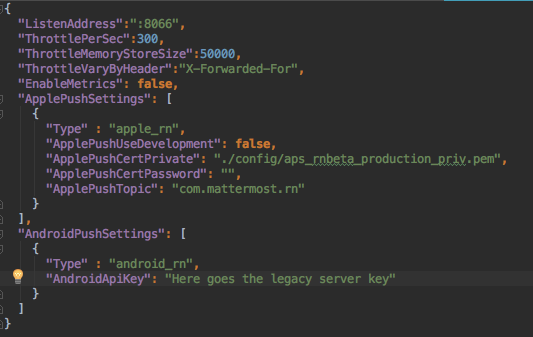
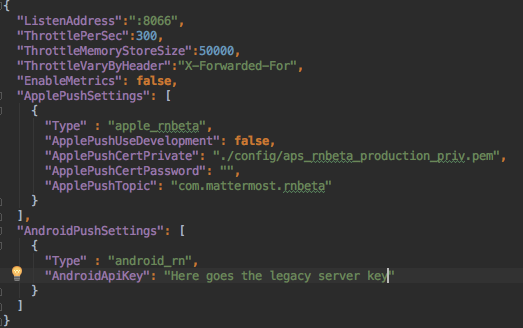
Push notifications for ios and project structure

diff --git a/source/developer/mobile-developer-setup.rst b/source/developer/mobile-developer-setup.rst
@@ -250,7 +250,41 @@ To add them, edit the ``Podfile`` located in the ``ios`` directory, then from th
 Project Directory Structure
 ------------------------------------
 
-.. image:: ../../source/images/project_directory_structure_apps.png
+  .. code-block:: bash
+
+    .
+    ├── android
+    ├── app
+    │   ├── actions
+    │   ├── components
+    │   ├── constants
+    │   ├── i18n
+    │   ├── mattermost_managed
+    │   ├── notification_preferences
+    │   ├── push_notifications
+    │   ├── reducers
+    │   ├── screens
+    │   ├── selectors
+    │   ├── store
+    │   ├── styles
+    │   └── utils
+    ├── assets
+    │   ├── base
+    │   │   ├── i18n
+    │   │   ├── images
+    │   │   └── release
+    │   └── fonts
+    ├── coverage
+    ├── dist
+    │   └── assets
+    │       ├── i18n
+    │       ├── images
+    │       └── release
+    ├── docs
+    ├── fastlane
+    ├── ios
+    ├── scripts
+    └── test
 
 Make Commands Explained
 ------------------------------------
@@ -321,6 +355,7 @@ Plug in your Android device in any available USB port in your development machin
 check that your device is properly connecting to ADB (Android Debug Bridge) by running **adb devices**.
 
   .. code-block:: bash
+
     $ adb devices
     List of devices attached
     42006fb3e4fb25b8    device
@@ -482,7 +517,7 @@ file under the fastlane directory to get a sense of all of them.
 +-----------------------------------------------+-------------------------------------------------------------------------------------------------------+-------------------------+
 | ANDROID_APP_NAME                              | The name of the app as it is going to be shown in the Android home screen.                            | Mattermost Beta         |
 +-----------------------------------------------+-------------------------------------------------------------------------------------------------------+-------------------------+
-| ANDROID_REPLACE_ASSETS                        | Replaces the icons of the app with the ones found under the folder *assets/release/icons/android*.    | false                   |
+| ANDROID_REPLACE_ASSETS                        | Replaces the icons of the app with the ones found under the folder *dist/assets/release/icons/android*.    | false                   |
 |                                               | Valid values are: true, false                                                                         |                         |
 +-----------------------------------------------+-------------------------------------------------------------------------------------------------------+-------------------------+
 | ANDROID_INCREMENT_BUILD_NUMBER                | Increases the Android app build number, required when a new build is going to be publish to the       | false                   |
@@ -557,7 +592,7 @@ file under the fastlane directory to get a sense of all of them.
 |                                               | **Make sure you set this value to true if you plan to submit this app to TestFlight or distribute     |                                        |
 |                                               | it in any other way**.                                                                                |                                        |
 +-----------------------------------------------+-------------------------------------------------------------------------------------------------------+----------------------------------------+
-| IOS_REPLACE_ASSETS                            | Replaces the icons of the app with the ones found under the folder *assets/release/icons/ios*.        | false                                  |
+| IOS_REPLACE_ASSETS                            | Replaces the icons of the app with the ones found under the folder *dist/assets/release/icons/ios*.        | false                                  |
 |                                               | Valid values are: true, false                                                                         |                                        |
 +-----------------------------------------------+-------------------------------------------------------------------------------------------------------+----------------------------------------+
 | IOS_INCREMENT_BUILD_NUMBER                    | Increases the iOS app build number, required when a new build is going to be publish to TestFlight    | false                                  |
@@ -672,20 +707,102 @@ this guide will only focus about the changes needed in the **mattermost-push-pro
 
 - Go to the `Firebase Console <https://console.firebase.google.com>`_ and select the project you've created, once in the
   dashboard go to the project settings and select **CLOUD MESSAGING**
-
 .. image:: ../../source/images/mobile/firebase_settings.png
 
 .. image:: ../../source/images/mobile/firebase_cloud_messaging.png
 
 - Look for the value of the **Legacy Server Key** and copy it.
-
 .. image:: ../../source/images/mobile/farebase_server_key.png
 
 - Open the **mattermost-push-proxy.json** file under the ``mattermost-push-proxy/config`` directory and paste the value in the "AndroidApiKey"
-
 .. image:: ../../source/images/mobile/proxy-config.png
 
 - Finally restart your Mattermost Push Proxy server and your app should start receiving push notifications.
+
+Set up iOS to receive push notifications
+~~~~~~~~~~~~~~~~~~~~~~~~~~~~~~~~~~~~~~~~~
+
+Push notifications on iOS are managed and dispatched using `Apple's Push Notification Service <https://developer.apple.com/library/content/documentation/NetworkingInternet/Conceptual/RemoteNotificationsPG/APNSOverview.html>`_.
+You must have a **Paid Apple Developer account** to create certificates needed to send notifications using this service.
+
+ - Generate a Certificate from Keychain Access
+    * Launch the **Keychain Access application** in your Mac and select **KeyChain Access -> Certificate Assistant -> Request a Certificate From a Certificate Authority...**
+    .. image:: ../../source/images/mobile/ios_keychain_request_certificate.png
+
+    * Enter your email address in **User Email Address** and check the **"Save to disk"** option, then click **Continue**
+    .. image:: ../../source/images/mobile/ios_keychain_create_cert_request.png
+
+    * Save the certificate request
+    .. image:: ../../source/images/mobile/ios_keychain_save_cert_request.png
+
+ - Login to `Apple developer account <https://developer.apple.com/account>`_ and click **Certificates, Identifiers and Profiles**
+ .. image:: ../../source/images/mobile/ios_account.png
+
+ - Select iOS from the dropdown
+ .. image:: ../../source/images/mobile/ios_type.png
+
+ - Select App IDs from the side menu and look for the Bundle Identifier you are using for the Mattermost app
+ .. image:: ../../source/images/mobile/ios_appid.png
+
+ - Select the App ID and click **Edit**
+ .. image:: ../../source/images/mobile/ios_edit_appid.png
+
+ - Scroll down to the **Push Notification** Section and click Create a **Production SSL Certificate**
+ .. image:: ../../source/images/mobile/ios_create_push_certificate.png
+
+ - In the **About Creating a Certificate Signing Request (CSR)** screen click Continue
+ .. image:: ../../source/images/mobile/ios_csr.png
+
+ - Choose the certificate request file created using the Keychain access in the previous section and click **Continue**
+ .. image:: ../../source/images/mobile/ios_upload_csr.png
+
+ - Download the Certificate and click **Done** to finish the process
+
+Set up Mattermost Push Proxy Server to send iOS push notifications
+~~~~~~~~~~~~~~~~~~~~~~~~~~~~~~~~~~~~~~~~~~~~~~~~~~~~~~~~~~~~~~~~~~~~~~~
+
+Now that the app is capable of receiving push notifications we need to make sure that the Push Proxy server is able to send
+the notification to the device. If you haven't installed the Mattermost Push Proxy Server at this point you can
+do so by following the documentation on the `Mattermost Push Proxy Server repo <https://github.com/mattermost/mattermost-push-proxy/blob/master/README.md>`_
+and the documentation about `Hosted Push Notification Service <https://docs.mattermost.com/mobile/mobile-hpns.html>`_,
+this guide will only focus about the changes needed in the **mattermost-push-proxy.json** file which is the configuration file of the push proxy.
+
+ - Double click the **Distribution Certificate** generated in the previous step to add it to your Keychain Access. Go to **Keychain Access**,
+   select the **login** keychain and **My Certificates** from the side menu.
+ .. image:: ../../source/images/mobile/ios_keychain_select.png
+
+ - Find the certificate you imported and then right click to **export** it as a **.p12** file
+ .. image:: ../../source/images/mobile/ios_keychain_export.png
+
+ - Enter a name for the filename and click **Save**
+ .. image:: ../../source/images/mobile/ios_keychain_export_save.png
+
+ - Leave the **password** blank and then click **OK**
+ .. image:: ../../source/images/mobile/ios_keychain_export_password.png
+
+ - Convert the downloaded certificate to **.pem**
+ .. code-block:: bash
+
+   $ openssl x509 -in aps.cer -inform DER -out aps_production.pem
+
+ - Extract the private key from the certificate you exported
+ .. code-block:: bash
+
+   $ openssl pkcs12 -in Certificates.p12 -out aps_production_priv.pem -nodes -clcerts -passin pass:
+
+ - Verify the certificate works with apple
+ .. code-block:: bash
+
+   $ openssl s_client -connect gateway.push.apple.com:2195 -cert aps_production.pem -key aps_production_priv.pem
+
+ - Copy the private key file ``aps_production_priv.pem`` into your ``mattermost-push-proxy/config`` directory
+
+ - Open the **mattermost-push-proxy.json** file under the ``mattermost-push-proxy/config`` directory and add the path to the private key file
+   as the value for **"ApplePushCertPrivate"** and the value for **"ApplePushTopic"** with your *Bundle Identifier*
+ .. image:: ../../source/images/mobile/proxy-config.png
+
+ - Finally restart your Mattermost Push Proxy server and your app should start receiving push notifications.
+
 
 Troubleshooting
 ------------------
